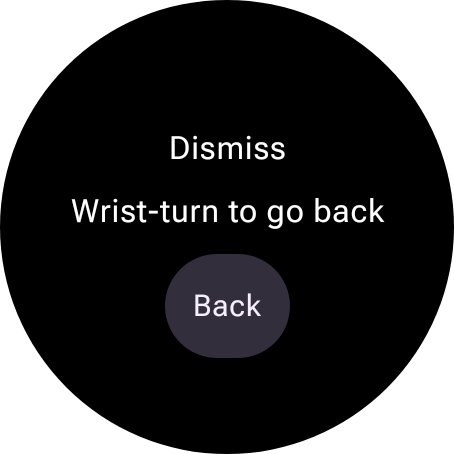
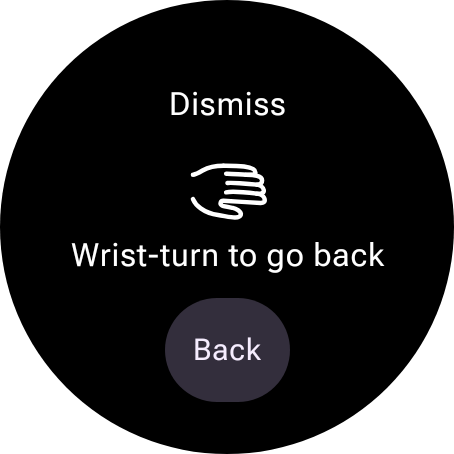
feat(samples): show wear-compose's shipped gesture-indicator art on the demo screens
Instead of adding a third-party Lottie, render wear-compose-material3's own
gesture-indicator AVDs — `wear_one_handed_gesture_primary_indicator_animation`
(double-pinch) and `..._dismiss_indicator_animation` (wrist-turn) — through the
official `androidx.compose.animation.graphics` API
(`AnimatedImageVector.animatedVectorResource` + `rememberAnimatedVectorPainter`),
the same drawable + API `OneHandedGestureIndicator` uses internally. Shown at the
resting frame so the gesture illustration is visible in a still capture (the
interactive indicator only flashes it on-device). The primary/dismiss screens now
display the real hand illustration above the instruction.

Changed region(s): [[0.1542, 0.185, 0.8634, 0.8943]]

diff --git a/samples/wear/src/main/kotlin/com/example/samplewear/Gestures.kt b/samples/wear/src/main/kotlin/com/example/samplewear/Gestures.kt
@@ -1,5 +1,10 @@
 package com.example.samplewear
 
+import androidx.compose.animation.graphics.ExperimentalAnimationGraphicsApi
+import androidx.compose.animation.graphics.res.animatedVectorResource
+import androidx.compose.animation.graphics.res.rememberAnimatedVectorPainter
+import androidx.compose.animation.graphics.vector.AnimatedImageVector
+import androidx.compose.foundation.Image
 import androidx.compose.foundation.interaction.MutableInteractionSource
 import androidx.compose.foundation.layout.Arrangement
 import androidx.compose.foundation.layout.Box
@@ -17,6 +22,7 @@ import androidx.compose.runtime.rememberCoroutineScope
 import androidx.compose.runtime.setValue
 import androidx.compose.ui.Alignment
 import androidx.compose.ui.Modifier
+import androidx.compose.ui.graphics.ColorFilter
 import androidx.compose.ui.text.style.TextAlign
 import androidx.compose.ui.tooling.preview.Preview
 import androidx.compose.ui.unit.dp
@@ -31,6 +37,7 @@ import androidx.wear.compose.material3.Button
 import androidx.wear.compose.material3.Card
 import androidx.wear.compose.material3.FilledTonalButton
 import androidx.wear.compose.material3.ListHeader
+import androidx.wear.compose.material3.LocalContentColor
 import androidx.wear.compose.material3.MaterialTheme
 import androidx.wear.compose.material3.ScreenScaffold
 import androidx.wear.compose.material3.Text
@@ -152,12 +159,46 @@ private fun GestureHomeScreen(onOpen: (String) -> Unit) {
 }
 
 /**
- * A titled full-screen gesture demo: a [ListHeader] title, an instruction line, and the interactive
- * affordance centred below — the layout the catalog's full-screen Wear stickers use so the screen
- * reads clearly instead of a bare control lost on the watch face.
+ * Renders wear-compose-material3's shipped gesture-indicator AVD
+ * (`wear_one_handed_gesture_{primary,dismiss}_indicator_animation`) as a static, tinted icon via the
+ * official `androidx.compose.animation.graphics` API — the same drawable + API
+ * `OneHandedGestureIndicator` draws internally, shown here at its resting frame so the gesture
+ * illustration is visible in a still capture (the interactive indicator only flashes it on-device).
+ */
+@OptIn(ExperimentalAnimationGraphicsApi::class)
+@Composable
+private fun GestureHintIcon(type: GestureType, modifier: Modifier = Modifier) {
+  val resId =
+    when (type) {
+      GestureType.DISMISS ->
+        androidx.wear.compose.material3.R.drawable
+          .wear_one_handed_gesture_dismiss_indicator_animation
+      else ->
+        androidx.wear.compose.material3.R.drawable
+          .wear_one_handed_gesture_primary_indicator_animation
+    }
+  val avd = AnimatedImageVector.animatedVectorResource(resId)
+  Image(
+    painter = rememberAnimatedVectorPainter(avd, atEnd = false),
+    contentDescription = null,
+    colorFilter = ColorFilter.tint(LocalContentColor.current),
+    modifier = modifier.size(40.dp),
+  )
+}
+
+/**
+ * A titled full-screen gesture demo: a [ListHeader] title, the shipped [GestureHintIcon] gesture
+ * illustration, an instruction line, and the interactive affordance centred below — the layout the
+ * catalog's full-screen Wear stickers use so the screen reads clearly instead of a bare control lost
+ * on the watch face.
  */
 @Composable
-private fun GestureDemoScreen(title: String, instruction: String, control: @Composable () -> Unit) {
+private fun GestureDemoScreen(
+  title: String,
+  instruction: String,
+  gestureType: GestureType? = null,
+  control: @Composable () -> Unit,
+) {
   ScreenScaffold {
     Column(
       modifier = Modifier.fillMaxSize().padding(horizontal = 12.dp),
@@ -165,6 +206,7 @@ private fun GestureDemoScreen(title: String, instruction: String, control: @Comp
       verticalArrangement = Arrangement.Center,
     ) {
       ListHeader { Text(title) }
+      gestureType?.let { GestureHintIcon(it, modifier = Modifier.padding(bottom = 4.dp)) }
       Text(instruction, textAlign = TextAlign.Center)
       Box(modifier = Modifier.padding(top = 12.dp)) { control() }
     }
@@ -201,7 +243,11 @@ private fun PlayGestureButton(forceHint: Boolean) {
 /** Primary action (double pinch) on a play/pause button. */
 @Composable
 fun PrimaryActionScreen(forceHint: Boolean = false) {
-  GestureDemoScreen(title = "Primary", instruction = "Double-pinch to play") {
+  GestureDemoScreen(
+    title = "Primary",
+    instruction = "Double-pinch to play",
+    gestureType = GestureType.PRIMARY,
+  ) {
     PlayGestureButton(forceHint)
   }
 }
@@ -210,7 +256,11 @@ fun PrimaryActionScreen(forceHint: Boolean = false) {
 @Composable
 fun DismissActionScreen(onDismiss: () -> Unit = {}, forceHint: Boolean = false) {
   val interactionSource = remember { MutableInteractionSource() }
-  GestureDemoScreen(title = "Dismiss", instruction = "Wrist-turn to go back") {
+  GestureDemoScreen(
+    title = "Dismiss",
+    instruction = "Wrist-turn to go back",
+    gestureType = GestureType.DISMISS,
+  ) {
     GestureHint(
       type = GestureType.DISMISS,
       interactionSource = interactionSource,
